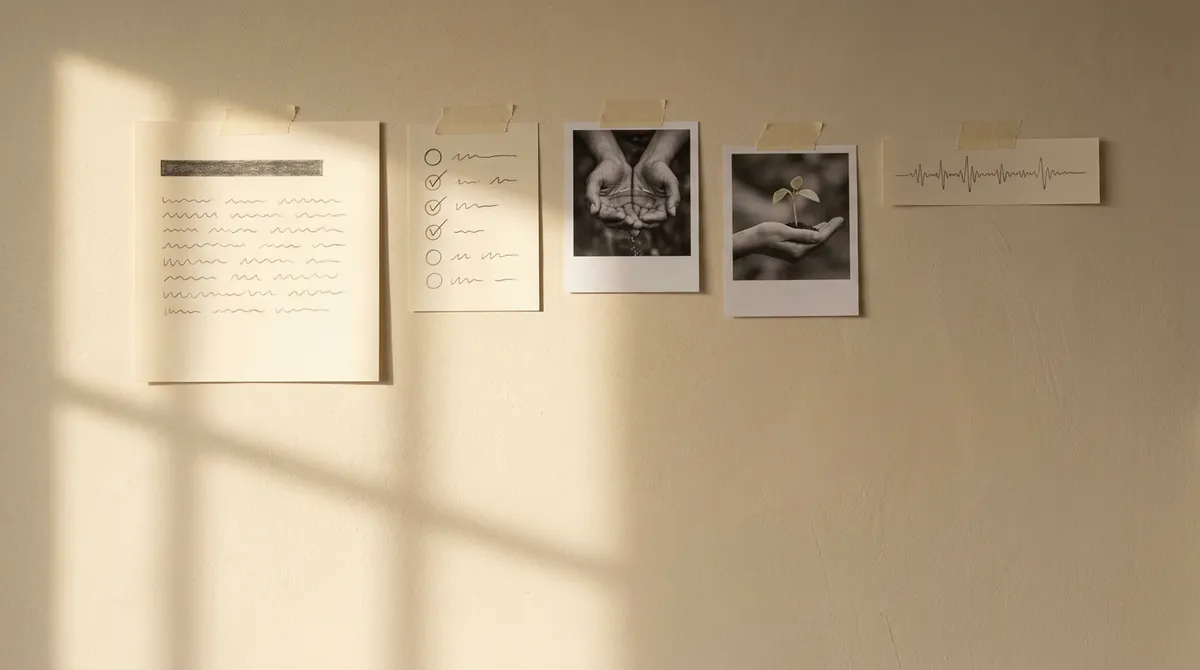
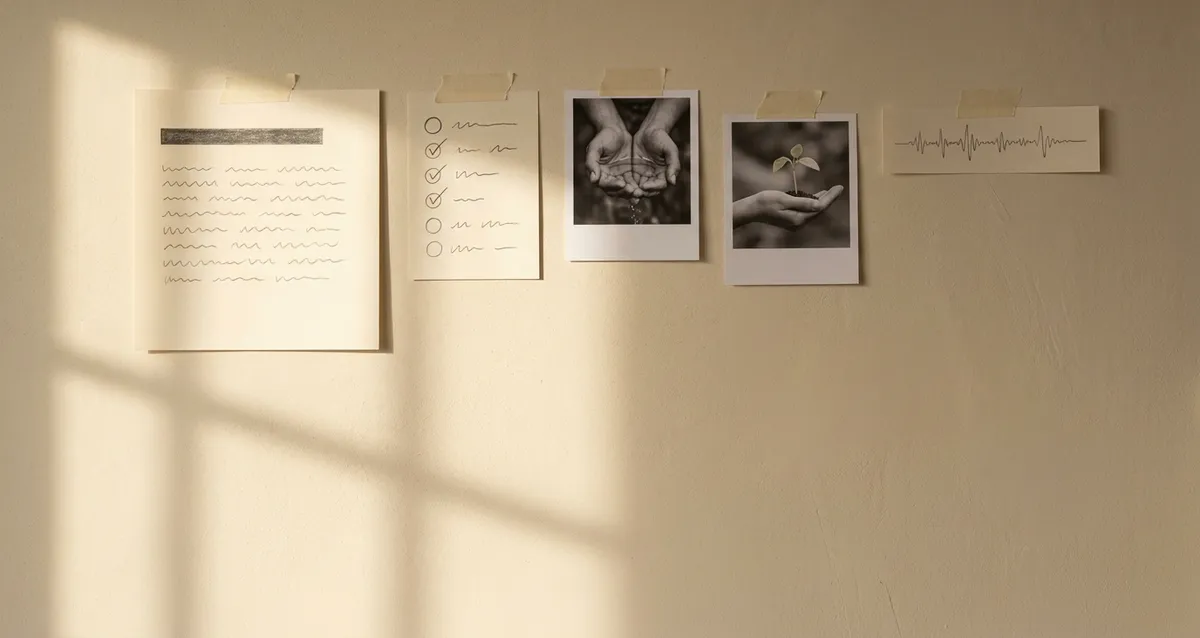
Feed: the pinned post says one thing and fits whole on the first screen
G 18.10: «закріплений пост має бути видно повністю на хіро; спрости текст,
там багато тавтології — саму суть».

The post was a title, a paragraph and three lines that each said again what
the page's own lead says. It is now one line — «Не знаєте, з чого почати?»,
and before any author has posted «Перші дописи вже скоро. А поки є з чого
почати.» — and one way in, the free shelf, whose card no longer repeats
«безкоштовні» in its second line.

It fits whole on the first screen at 1280×720, 1280×900, 1920×1080 and on a
phone at 390×844, 390×700 and 375×667: the empty strip above the pieces is
cropped from both plates so the title and the post start higher, the post's
face is the compact one, and on a short screen the lead gives way first.

Claude-Session: https://claude.ai/code/session_01W6EuJWVYaZNuEGMC8Zs2Pg

diff --git a/src/components/platform/feed/FeedWelcome.tsx b/src/components/platform/feed/FeedWelcome.tsx
@@ -1,19 +1,19 @@
 /**
- * «Стрічка · початок» (feed mockup, 16.10): the pinned word from CenterWay
- * that opens the unfiltered feed. What the feed carries — practices, thoughts,
- * events — is three lines inside that one post (G 17.10: «одного поста
- * достатньо, 3 картки вбудуй у перший пост»), not cards of their own.
+ * The pinned post of CenterWay, taped to the wall under the title (G
+ * 2026-10-18). One line and one way in — nothing the title above it already
+ * says. What the feed carries is the page's own lead; this post only answers
+ * «з чого почати», with the free shelf as the answer.
  *
- * On launch day, before any author has posted, only its opening sentence
- * changes. A filtered feed does not show it — the reader asked for one topic
- * or author, not for the introduction.
+ * It stays whole inside the first screen on a desktop and on a phone: that is
+ * why it is this short. Before any author has posted, only its line changes. A
+ * filtered feed does not show it — the reader asked for one topic or author,
+ * not for a way in.
  *
- * The mockup's practice («Дихання 4–6») was a placeholder; the card leads to
- * the real free shelf (`/programs?free=1`, the home page's «Усі безкоштовні»).
+ * The card leads to the real free shelf (`/programs?free=1`, the home page's
+ * «Усі безкоштовні»).
  */
 
 import { AuthorPortrait } from "@/components/platform/AuthorPortrait";
-import { Icon } from "@/components/Icon";
 import { programAttachment } from "@/lib/feed/attachment";
 
 import { feedCopy } from "./copy";
@@ -26,40 +26,20 @@ const FREE = {
   href: "/programs?free=1",
 };
 
-const KINDS = [
-  { icon: "body", title: feedCopy.willPractices, text: feedCopy.willPracticesText },
-  { icon: "quote", title: feedCopy.willThoughts, text: feedCopy.willThoughtsText },
-  { icon: "calendar", title: feedCopy.willEvents, text: feedCopy.willEventsText },
-] as const;
-
 export function FeedWelcome({ launch }: { launch: boolean }) {
   return (
-    <article className={`${styles.post} ${styles.pinned}`} aria-labelledby="feed-welcome-title">
+    <article className={`${styles.post} ${styles.pinned}`} aria-label={feedCopy.pinnedLabel}>
       <div className={styles.byline}>
         <span className={styles.face} aria-hidden="true">
-          <AuthorPortrait photo={null} size="sm" fallback="C" />
+          <AuthorPortrait photo={null} size="xs" fallback="C" />
         </span>
         <div className={styles.who}>
           <p className={styles.whoName}>
             CenterWay <span className={styles.pinTag}>· {feedCopy.pinned}</span>
           </p>
-          <p className={styles.when}>{feedCopy.welcomeBy}</p>
         </div>
       </div>
-      <h2 className={styles.welcomeTitle} id="feed-welcome-title">
-        {feedCopy.welcomeTitle}
-      </h2>
       <p className={styles.welcomeText}>{launch ? feedCopy.welcomeLaunch : feedCopy.welcomeText}</p>
-      <ul className={styles.willList}>
-        {KINDS.map((kind) => (
-          <li className={styles.willItem} key={kind.title}>
-            <Icon className={styles.willIcon} name={kind.icon} size={20} />
-            <span>
-              <b className={styles.willTitle}>{kind.title}</b> <span className={styles.willText}>{kind.text}</span>
-            </span>
-          </li>
-        ))}
-      </ul>
       <FeedAttachment attachment={FREE} />
     </article>
   );

diff --git a/src/components/platform/feed/copy.ts b/src/components/platform/feed/copy.ts
@@ -9,20 +9,11 @@ export const feedCopy = {
   empty: "Тут поки порожньо. Автори скоро напишуть перші дописи.",
   /* «Стрічка · початок» (mockup 16.10; G's ok on the words still pending). */
   pinned: "закріплено",
-  welcomeBy: "Команда платформи",
-  welcomeTitle: "Тут збираються практики й думки авторів",
-  welcomeLaunch:
-    "Поки автори готують перші дописи, ось що тут з’являтиметься. А почати можна вже зараз, з безкоштовної практики.",
-  welcomeText:
-    "Автори діляться тут тим, що працює в їхній практиці. Почати самому можна вже зараз, з безкоштовної практики.",
+  pinnedLabel: "Закріплений допис CenterWay",
+  welcomeText: "Не знаєте, з чого почати?",
+  welcomeLaunch: "Перші дописи вже скоро. А поки є з чого почати.",
   welcomeFree: "Безкоштовні практики",
-  welcomeFreeMeta: "Без оплати · можна почати зараз",
-  willPractices: "Практики",
-  willPracticesText: "Короткі вправи до дихання, руху й сну, які можна зробити одразу.",
-  willThoughts: "Думки",
-  willThoughtsText: "Авторські спостереження про тіло, ритм і звички.",
-  willEvents: "Події",
-  willEventsText: "Ефіри, старти програм і зустрічі: де й коли.",
+  welcomeFreeMeta: "Можна почати зараз",
   emptyFiltered: "За цим фільтром дописів немає.",
   more: "Показати ще",
   loading: "Завантажуємо…",

diff --git a/src/components/platform/feed/Feed.module.css b/src/components/platform/feed/Feed.module.css
@@ -1414,8 +1414,8 @@ a.commentFace {
    desktop, 50% on a phone); the title starts under them (`--wall-band`), and
    the feed's pinned post is taped to the plaster below the title. */
 .wall {
-  --stage-h: clamp(32rem, min(100svh, 56.25vw), 62rem);
-  --wall-band: calc(var(--stage-h) * 0.6);
+  --stage-h: clamp(28rem, min(100svh, 53.2vw), 62rem);
+  --wall-band: calc(var(--stage-h) * 0.57);
   position: relative;
   isolation: isolate;
   overflow-x: clip;
@@ -1477,8 +1477,16 @@ a.commentFace {
 
 @media (max-width: 35rem) {
   .wall {
-    --stage-h: clamp(34rem, 100svh, 54rem);
-    --wall-band: calc(var(--stage-h) * 0.53);
+    --stage-h: clamp(30rem, 100svh, 54rem);
+    --wall-band: calc(var(--stage-h) * 0.5);
+  }
+}
+
+/* A short screen keeps the title and the pinned post whole: the lead, which
+   the post below already answers, gives way first. */
+@media (max-height: 46rem) {
+  .heroLead {
+    display: none;
   }
 }
 
@@ -1567,48 +1575,9 @@ a.commentFace {
   font-weight: 600;
 }
 
-.welcomeTitle {
-  margin: 0;
-  font-family: var(--cw-font-editorial);
-  font-size: var(--ds-type-lead-size);
-  font-weight: 500;
-  line-height: 1.25;
-  text-wrap: balance;
-}
-
 .welcomeText {
   margin: 0;
   line-height: var(--ds-type-body-line-height);
-}
-
-/* What the feed carries, inside the pinned post: one line each. */
-.willList {
-  display: grid;
-  gap: var(--cw-space-xs);
-  margin: 0;
-  padding: 0;
-  list-style: none;
-}
-
-.willItem {
-  display: grid;
-  grid-template-columns: auto minmax(0, 1fr);
-  gap: var(--cw-space-sm);
-  align-items: start;
-  line-height: var(--ds-type-body-sm-line-height);
-}
-
-.willIcon {
-  margin-block-start: 0.1em;
-  color: var(--cw-platform-text);
-}
-
-.willTitle {
-  font-weight: 700;
-}
-
-.willText {
-  color: var(--cw-platform-muted);
 }
 
 /* «Мої дописи»: how a post landed, under its action row. */

diff --git a/src/components/platform/feed/FeedHero.tsx b/src/components/platform/feed/FeedHero.tsx
@@ -38,7 +38,7 @@ export function FeedStage() {
           srcSet={`${WIDE_1200} 1200w, ${WIDE} 1600w`}
           sizes="100vw"
           width={1600}
-          height={900}
+          height={851}
           alt={feedCopy.heroAlt}
           fetchPriority="high"
           decoding="async"
